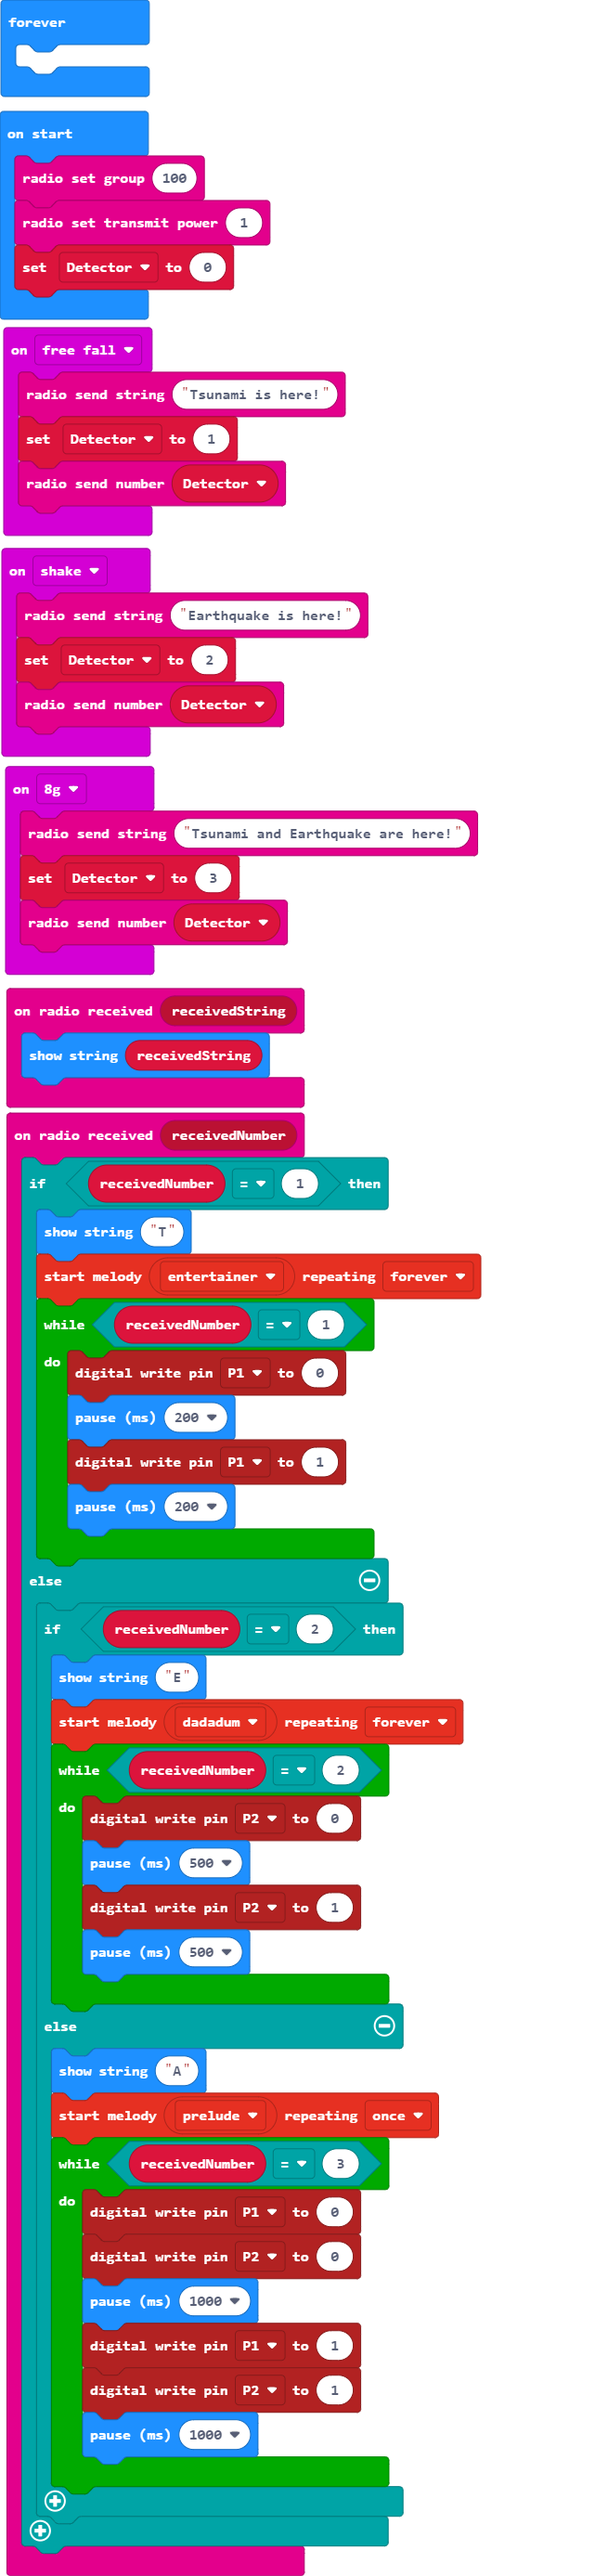
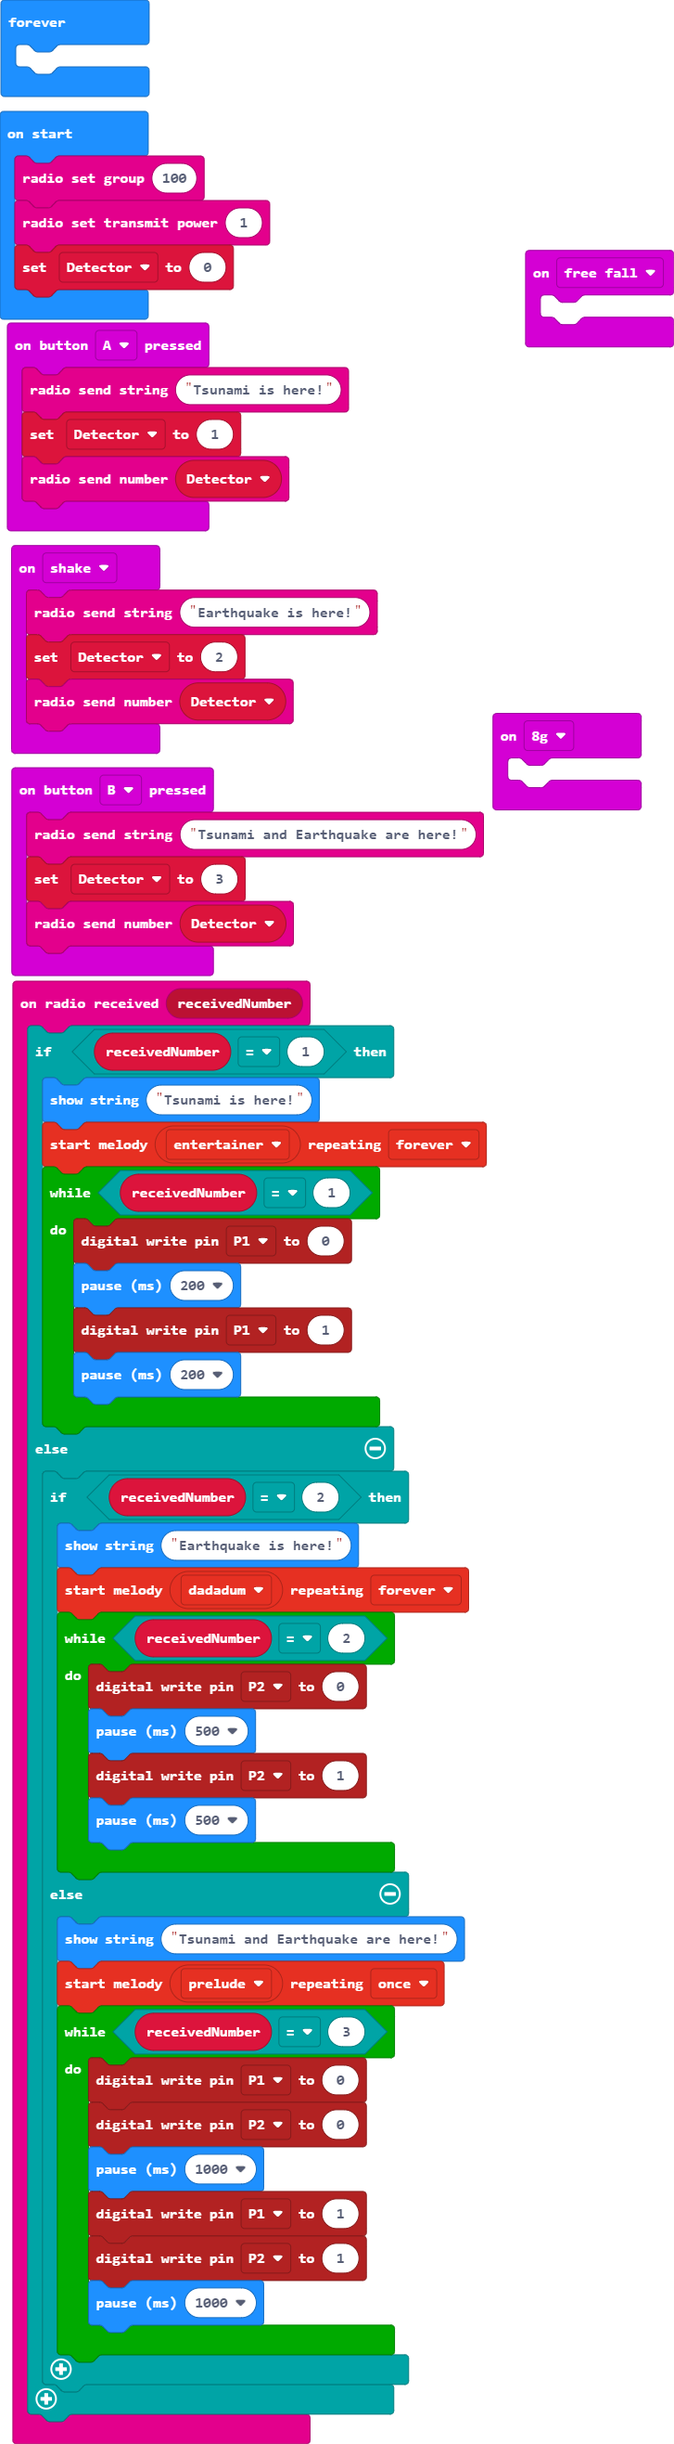
Update main.blocks, main.ts

diff --git a/main.ts b/main.ts
@@ -1,6 +1,6 @@
 radio.onReceivedNumber(function (receivedNumber) {
     if (receivedNumber == 1) {
-        basic.showString("T")
+        basic.showString("Tsunami is here!")
         music.startMelody(music.builtInMelody(Melodies.Entertainer), MelodyOptions.Forever)
         while (receivedNumber == 1) {
             pins.digitalWritePin(DigitalPin.P1, 0)
@@ -10,7 +10,7 @@ radio.onReceivedNumber(function (receivedNumber) {
         }
     } else {
         if (receivedNumber == 2) {
-            basic.showString("E")
+            basic.showString("Earthquake is here!")
             music.startMelody(music.builtInMelody(Melodies.Dadadadum), MelodyOptions.Forever)
             while (receivedNumber == 2) {
                 pins.digitalWritePin(DigitalPin.P2, 0)
@@ -19,7 +19,7 @@ radio.onReceivedNumber(function (receivedNumber) {
                 basic.pause(500)
             }
         } else {
-            basic.showString("A")
+            basic.showString("Tsunami and Earthquake are here!")
             music.startMelody(music.builtInMelody(Melodies.Prelude), MelodyOptions.Once)
             while (receivedNumber == 3) {
                 pins.digitalWritePin(DigitalPin.P1, 0)
@@ -33,17 +33,20 @@ radio.onReceivedNumber(function (receivedNumber) {
     }
 })
 input.onGesture(Gesture.EightG, function () {
-    radio.sendString("Tsunami and Earthquake are here!")
-    Detector = 3
-    radio.sendNumber(Detector)
+	
 })
-input.onGesture(Gesture.FreeFall, function () {
+input.onButtonPressed(Button.A, function () {
     radio.sendString("Tsunami is here!")
     Detector = 1
     radio.sendNumber(Detector)
 })
-radio.onReceivedString(function (receivedString) {
-    basic.showString(receivedString)
+input.onGesture(Gesture.FreeFall, function () {
+	
+})
+input.onButtonPressed(Button.B, function () {
+    radio.sendString("Tsunami and Earthquake are here!")
+    Detector = 3
+    radio.sendNumber(Detector)
 })
 input.onGesture(Gesture.Shake, function () {
     radio.sendString("Earthquake is here!")
